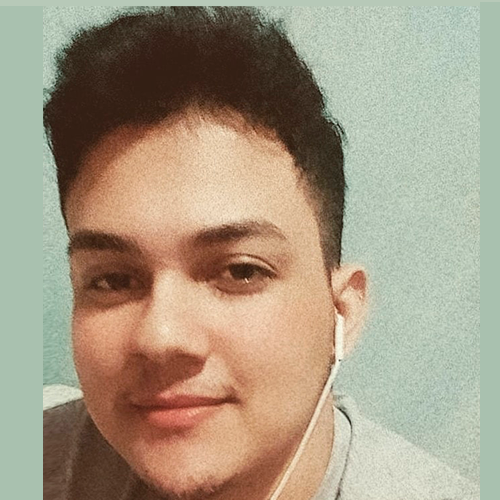
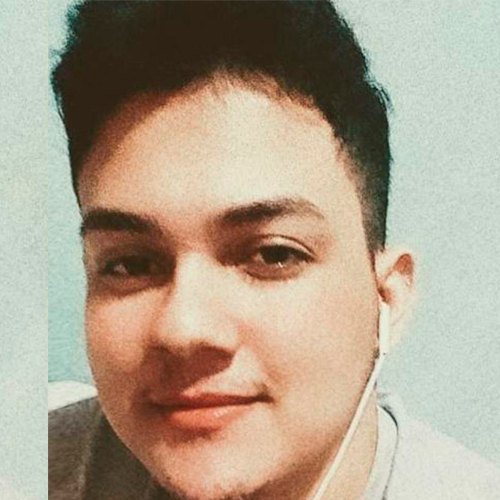
Atualização da sessão Time
Atualizei as imagens do time

diff --git a/application/views/site.php b/application/views/site.php
@@ -207,7 +207,7 @@
                 <div class="row">
                     <div class="col-lg-4">
                         <div class="team-member">
-                            <img class="mx-auto rounded-circle" src="<?php echo base_url('assets/assets2/img/team/1.jpeg" alt=""');?>" />
+                            <img class="mx-auto rounded-circle" src="<?php echo base_url('assets/assets2/img/team/1.png" alt=""');?>" />
                             <h4>Alef Antonio</h4>
                             <p class="text-muted">Front End Developer</p>
                             <a class="btn btn-dark btn-social mx-2" href="#!"><i class="fab fa-twitter"></i></a>
